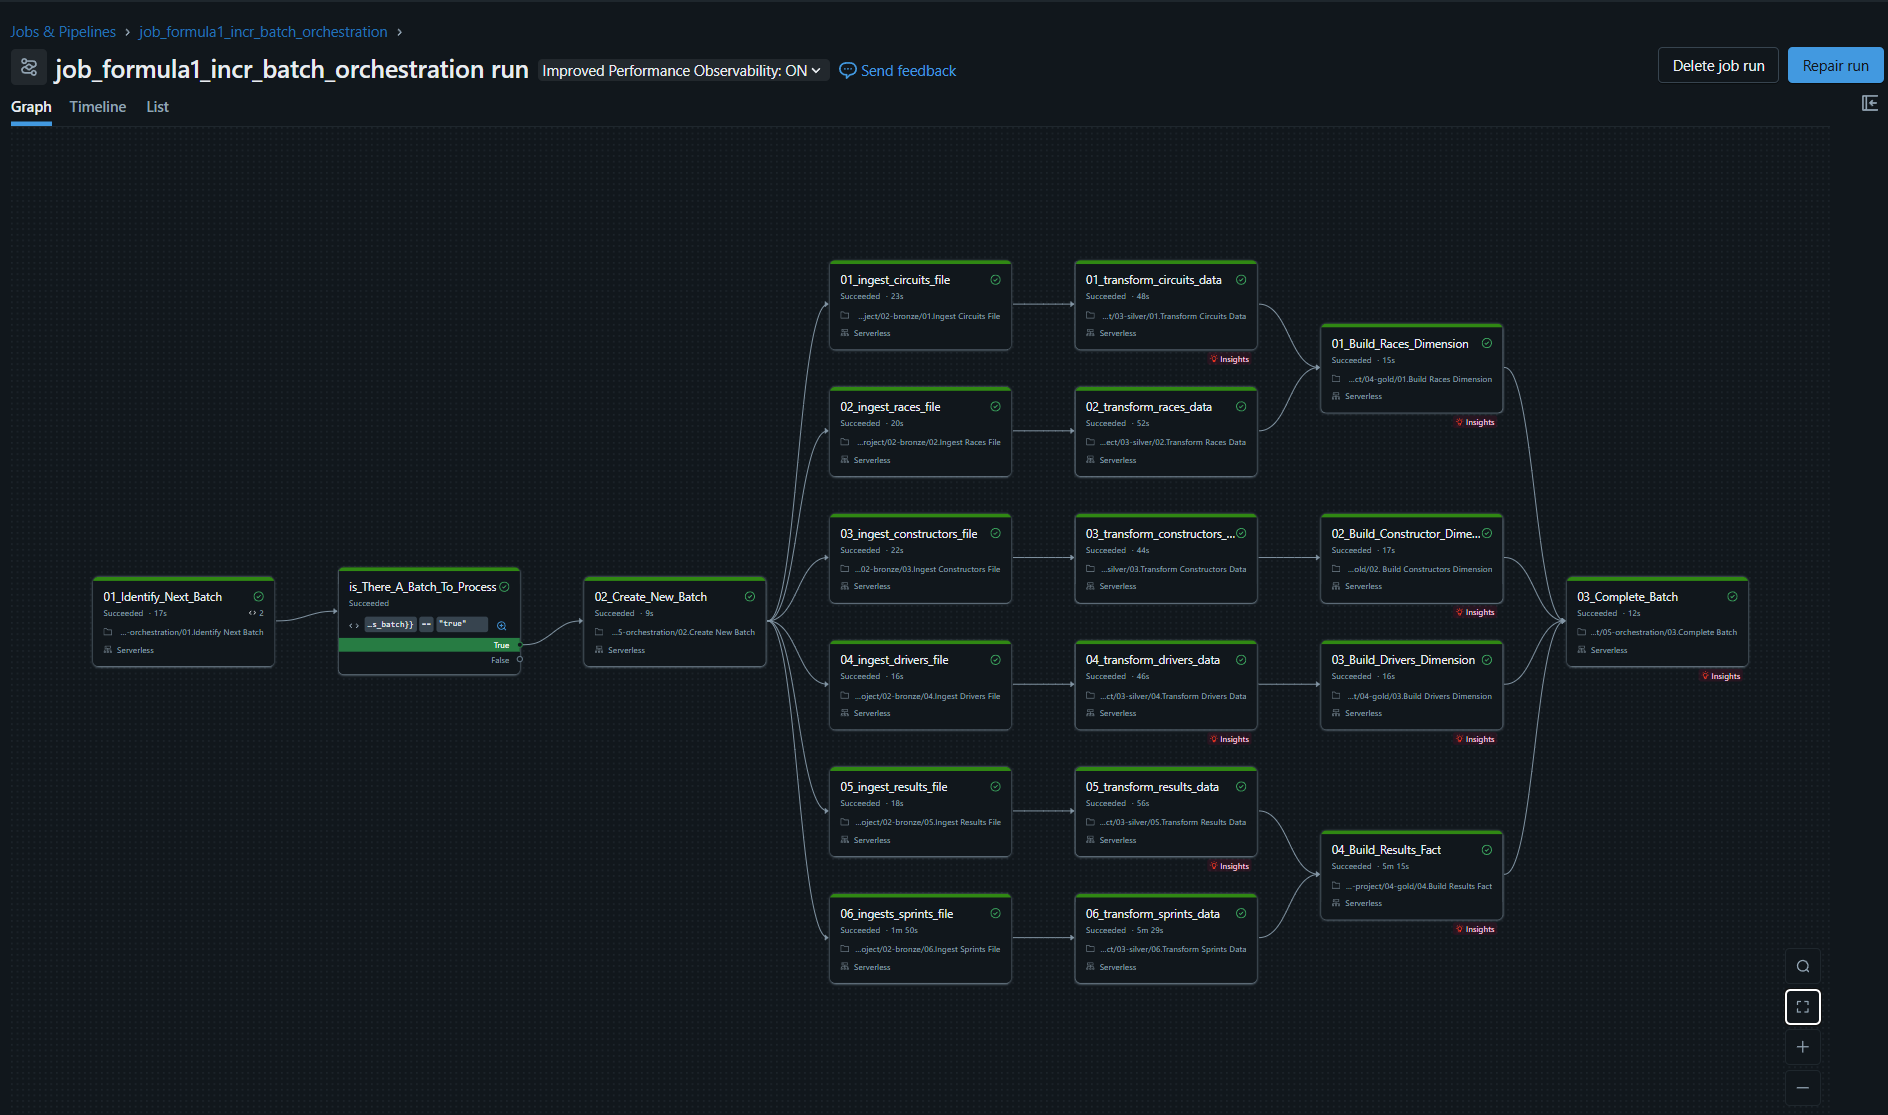
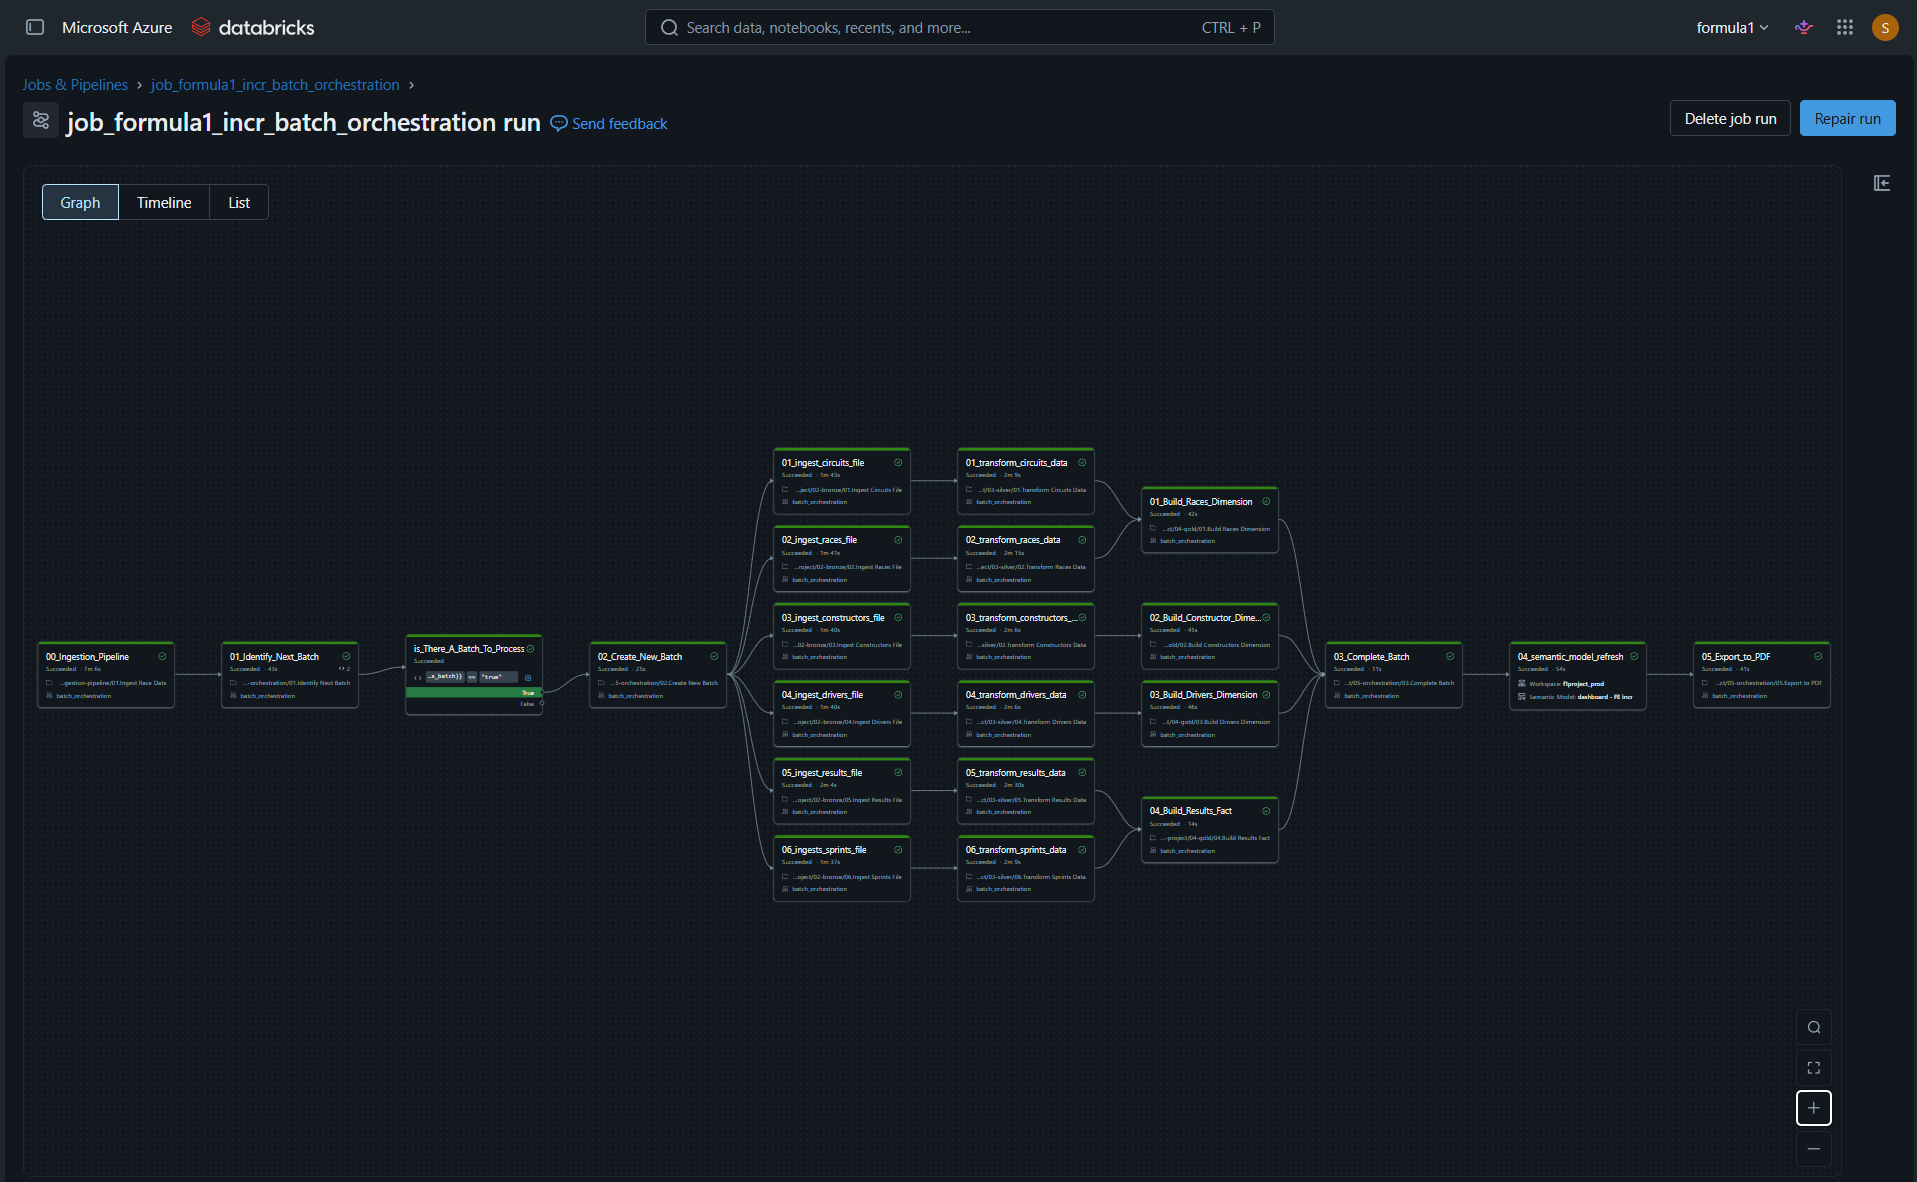
docs: update README to reflect ingestion pipeline and CI additions
- Add 06-ingestion-pipeline section (dual-mode ingestion, ingestion_helpers.py API)
- Add Testing & CI section (pytest suite, GitHub Actions on PR + push to main)
- Fix orchestration DAG: add missing tasks (00_Ingestion_Pipeline,
  04_semantic_model_refresh, 05_Export_to_PDF)
- Add Ingestion and Testing/CI rows to tech stack table
- Update project structure tree to include 06-ingestion-pipeline

diff --git a/README.md b/README.md
@@ -52,6 +52,8 @@ The pipeline ingests Formula 1 race data from the Jolpica F1 API (https://api.jo
 | **Data Quality** | Custom DQ Framework (PySpark) | 6 check types, audit table, critical-failure halting |
 | **Analytics Layer** | Spark SQL Views | Standings, evolution, stats, reference data |
 | **BI & Reporting** | Power BI Desktop + Deneb | Dashboard with native and custom Deneb visuals |
+| **Ingestion** | Python (`ingestion_helpers.py`) | Jolpica API fetching, pagination, parsing, input validation |
+| **Testing & CI** | pytest + GitHub Actions | Unit tests for ingestion helpers; runs on every PR and push to `main` |
 
 
 ---
@@ -67,6 +69,7 @@ The pipeline ingests Formula 1 race data from the Jolpica F1 API (https://api.jo
  ┃ ┣ 📁 03-silver/               # Transformation notebooks: type enforcement, deduplication, upsert
  ┃ ┣ 📁 04-gold/                 # Dimensional model: dim_races, dim_constructors, dim_drivers, fact_session_results
  ┃ ┣ 📁 05-orchestration/        # Batch control: identify → create → complete batch
+ ┃ ┣ 📁 06-ingestion-pipeline/   # API ingestion: notebook, helper module, unit tests
  ┃ ┣ 📁 07-lakeflow-jobs/        # Databricks job YAML (DAG definition + weekly schedule)
  ┃ ┣ 📁 08-analytics/            # SQL views: standings, evolution, stats, reference
  ┃ ┗ 📁 09-Reporting-BI/         # Native Visuals and Deneb JSON specs for Power BI custom visuals
@@ -76,6 +79,35 @@ The pipeline ingests Formula 1 race data from the Jolpica F1 API (https://api.jo
  ┃ ┗ 📁 helpers-svg/             # Custom SVG icons (F1 logo, calendar, helmet, race car)
  ┗ 📄 README.md
 ```
+
+---
+
+## 🔄 Ingestion Pipeline
+
+The `06-ingestion-pipeline/` folder handles everything between the Jolpica API and the ADLS Gen2 landing zone. It runs as `00_Ingestion_Pipeline` — the first task in the Lakeflow job, before any batch tracking begins.
+
+### Dual-Mode Operation
+
+| Mode | Trigger | Behaviour |
+|---|---|---|
+| **Auto-detect** | Both `p_season` and `p_round_no` left blank | Fetches the current season's race schedule, finds the most recently completed race within a 6-day look-back window, and derives the `batch_id` automatically |
+| **Manual override** | Both `p_season` and `p_round_no` provided | Skips auto-detect; useful for historical backfills. Both must be supplied together — a partial override raises immediately rather than silently falling back |
+
+### `ingestion_helpers.py`
+
+A standalone Python module (importable outside Databricks) with five functions:
+
+| Function | Purpose |
+|---|---|
+| `validate_batch_inputs(season, round_no)` | Validates season (1950–current year) and round (1–30); returns zero-padded `batch_id` |
+| `fetch_paginated(endpoint, data_key, record_key)` | Handles Jolpica's paginated responses; fetches all pages and returns a flat list |
+| `parse_results(races)` | Flattens race results into records; raises `ValueError` if the round hasn't completed yet |
+| `parse_sprints(races)` | Flattens sprint results; returns `[]` silently for non-sprint rounds |
+| `parse_drivers(drivers_raw)` | Parses driver records; converts empty `dateOfBirth` to `None` to avoid Bronze schema failures |
+
+**Key design note:** `parse_sprints` returning an empty list (not raising) for non-sprint rounds is intentional — an empty JSON file is written to landing, which the downstream Bronze and Silver notebooks handle gracefully, keeping the pipeline uniform across all race weekend types.
+
+Each batch run writes 6 files/directories to `landing/<batch_id>/`: `circuits`, `races`, `constructors`, `drivers`, `results`, and `sprints`.
 
 ---
 
@@ -121,11 +153,14 @@ The pipeline is orchestrated as a **Databricks Lakeflow Job** running on a weekl
 
 The DAG enforces a strict dependency order:
 
-1. **`01_Identify_Next_Batch`** — queries the batch control table to find the next unprocessed batch. If none exists, a conditional branch (`is_There_A_Batch_To_Process`) short-circuits the run cleanly rather than failing.
-2. **`02_Create_New_Batch`** — registers the batch as in-progress in the control table, establishing a single audit record for the run.
-3. **Bronze + Silver tasks (parallel)** — 6 Bronze ingestion tasks fan out in parallel, each feeding its corresponding Silver transformation task. This parallelism cuts wall-clock time significantly vs sequential execution.
-4. **Gold dimension + fact tasks** — The Gold layer is built from Silver data, producing dimension and fact tables for analytical consumption.
-5. **`03_Complete_Batch`** — marks the batch as successfully processed in the control table. Only reached if all upstream tasks succeed.
+1. **`00_Ingestion_Pipeline`** — calls the Jolpica F1 API and writes raw files to ADLS Gen2 under the batch's landing path. Supports auto-detect (6-day look-back window from today) and manual override via `p_season`/`p_round_no` widgets for historical backfills.
+2. **`01_Identify_Next_Batch`** — queries the batch control table to find the earliest unprocessed landing folder. If none exists, a conditional branch (`is_There_A_Batch_To_Process`) short-circuits the run cleanly rather than failing.
+3. **`02_Create_New_Batch`** — registers the batch as `in_progress` in the control table, establishing a single audit record for the run.
+4. **Bronze + Silver tasks (parallel)** — 6 Bronze ingestion tasks fan out in parallel, each feeding its corresponding Silver transformation task. This parallelism cuts wall-clock time significantly vs sequential execution.
+5. **Gold dimension + fact tasks** — Three dimension tables and one fact table are built from Silver data. `fact_session_results` waits on both results and sprints Silver tasks before running.
+6. **`03_Complete_Batch`** — marks the batch as `completed` in the control table via a Delta `MERGE`. Only reached if all upstream tasks succeed.
+7. **`04_semantic_model_refresh`** — triggers a refresh of the Power BI Direct Query semantic model (`dashboard - FE incr` in the `f1project_prod` workspace) using a dedicated Lakeflow Power BI task (not a notebook).
+8. **`05_Export_to_PDF`** — calls the Power BI REST API to export the dashboard as a PDF snapshot, polls for completion, and saves the file to a Unity Catalog Volume (`formula1_incr/reports/snapshots/<season>_<round>_<timestamp>.pdf`). Credentials are pulled from a Databricks Secret Scope (`pbi-secrets`).
 
 <img src="assets/screenshots/job_formula1_incr_batch_orchestration.png" alt="Databricks Lakeflow Job DAG" width="100%"/>
 
@@ -156,6 +191,28 @@ A custom DQ framework runs on every Silver table after each transformation. Resu
 ### Delta CHECK Constraints
 
 In addition to runtime DQ checks, Delta-level `CHECK` constraints are applied to Silver tables at setup time, enforcing invariants at the storage layer — a second line of defence independent of the pipeline code.
+
+---
+
+## 🧪 Testing & CI
+
+`ingestion_helpers.py` has a full pytest suite (`test_ingestion_helpers.py`) covering all five functions. Tests never make real HTTP calls — `requests.get` is replaced with `unittest.mock.patch` so the suite is fast, deterministic, and network-independent.
+
+| Test Class | What's covered |
+|---|---|
+| `TestValidateBatchInputs` | Empty inputs, non-numeric, out-of-range season/round, correct zero-padding |
+| `TestFetchPaginated` | Single-page response, multi-page pagination (correct offset), HTTP error propagation |
+| `TestParseResults` | Empty races raises `ValueError`; correct int/float casting; raceName lowercasing |
+| `TestParseSprints` | Empty races returns `[]` (not an error); correct typing for sprint records |
+| `TestParseDrivers` | Empty-string `dateOfBirth` → `None`; missing key → `None`; name lowercasing regression |
+
+A GitHub Actions workflow (`.github/workflows/unit-tests.yml`) runs the full suite on every **pull request** and **push to `main`**.
+
+```yaml
+# Trigger: PR + push to main
+working-directory: formula1-project/06-ingestion-pipeline
+run: pytest -v
+```
 
 ---
 